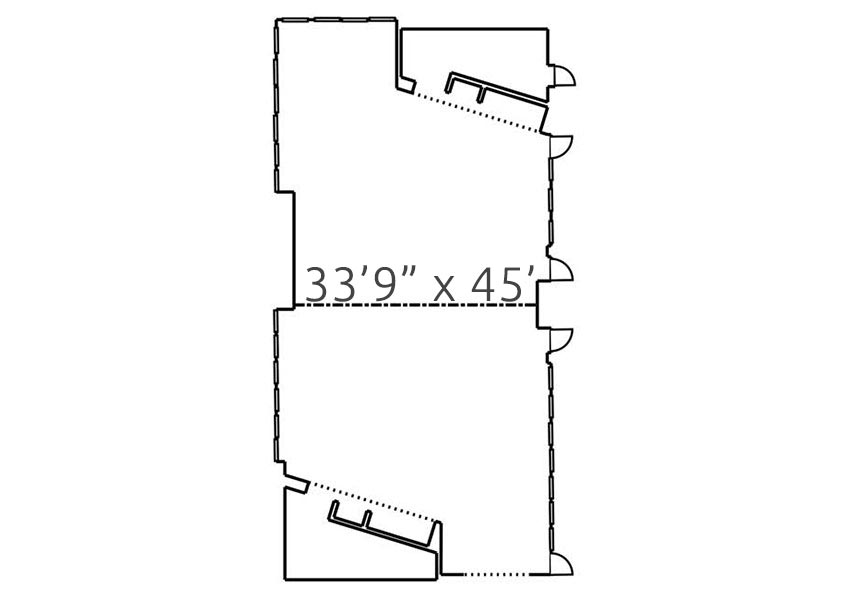
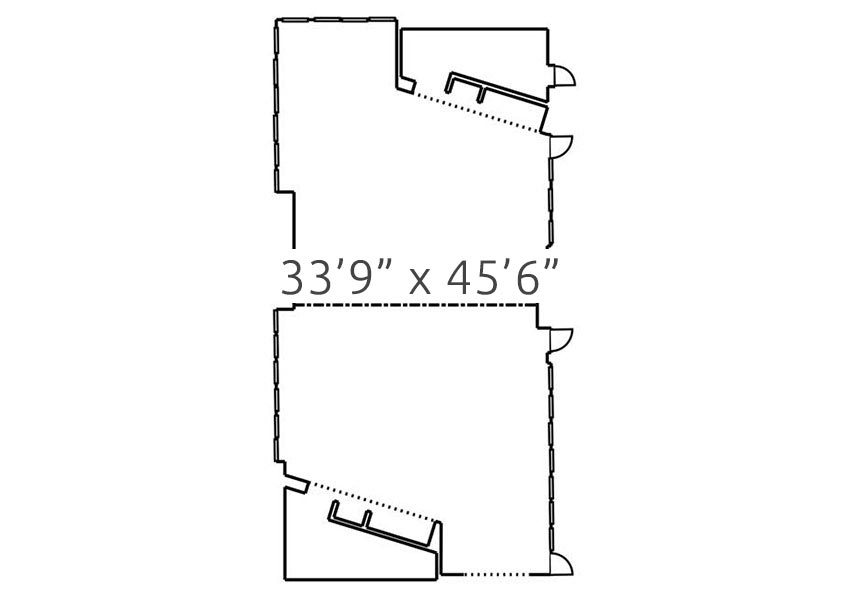
rooms and floor plans

Changed region(s): [[0.3365, 0.42, 0.6729, 0.51]]

diff --git a/event-spaces/index.html b/event-spaces/index.html
@@ -128,6 +128,13 @@ e.async=true;var t=document.getElementsByTagName("script")[0];t.parentNode.inser
     vertical-align: middle;
     padding-bottom: 3px;
 }
+.more, .more a, .more a:hover {
+    color: #b1462c;
+    text-decoration: none!important;
+    font-size: 1.2em;
+    vertical-align: top;
+    font-weight: 500;
+}
 .lbl {
     position: relative;
     top: 9px;
@@ -188,6 +195,9 @@ e.async=true;var t=document.getElementsByTagName("script")[0];t.parentNode.inser
 @media (max-width: 767px) {
 .element-item {
     width: 100%;
+}
+.element-wrapper {
+    margin: 0 2px 30px 2px;
 }
 }
 </style>
@@ -411,7 +421,7 @@ e.async=true;var t=document.getElementsByTagName("script")[0];t.parentNode.inser
           <div class="element-wrapper">
             <div class="no-padding"><img class="img-responsive center-block" src="cap-ma-event-hall-library.jpg" alt="CPN Masters Association Event Hall"></div>
             <div class="padding-15">
-              <h4 class="no-margin-top"><span class="text-uppercase">Castle Pines &mdash;</span> <span class="roboto">CPN Master Association Event Hall + Adjoining Library Space</span></h4>
+              <h4 class="no-margin-top"><span class="text-uppercase">Castle Pines &mdash;</span> <span class="roboto">CPN Master Association Event Hall + Adjoining Library Space <a class="more" data-placement="top" tabindex="0" role="button" data-toggle="popover" data-trigger="focus" data-content="Only available through Select or Concierge Service">*</a></span></h4>
               <div><span class="text-uppercase small">Theater Capacity:</span> 120</div>
               <div><span class="text-uppercase small">Availability:</span> Before/after library hours</div>
               <div><span class="text-uppercase small">Dimensions:</span> 53' x 25'3"</div>
@@ -425,7 +435,7 @@ e.async=true;var t=document.getElementsByTagName("script")[0];t.parentNode.inser
           <div class="element-wrapper">
             <div class="no-padding"><img class="img-responsive center-block" src="cap-the-terrace.jpg" alt="The Terrace"></div>
             <div class="padding-15">
-              <h4 class="no-margin-top"><span class="text-uppercase">Castle Pines &mdash;</span> <span class="roboto">The Terrace</span></h4>
+              <h4 class="no-margin-top"><span class="text-uppercase">Castle Pines &mdash;</span> <span class="roboto">The Terrace <a class="more" data-placement="top" tabindex="0" role="button" data-toggle="popover" data-trigger="focus" data-content="Only available through Select or Concierge Service">*</a></span></h4>
               <div><span class="text-uppercase small">Max. Capacity:</span> 100</div>
               <div><span class="text-uppercase small">Availability:</span> Before/after library hours</div>
               <div><span class="text-uppercase small">Dimensions:</span> 47'6" x 24'8"</div>
@@ -474,6 +484,20 @@ e.async=true;var t=document.getElementsByTagName("script")[0];t.parentNode.inser
               <div><span class="text-uppercase small">Cost/Hr:</span> $30-75</div>
               <div class="text-uppercase small"><i class="material-icons teal">home</i> Indoor</div>
               <div class="margin-top-10">The covered second-floor terrace is adjacent to the green roof and features Wi-Fi internet access, a fireplace, and stunning Front Range vistas.</div>
+            </div>
+          </div>
+        </div>
+        <div class="element-item castle-pines" data-smallcap="6" data-largecap="-6">
+          <div class="element-wrapper">
+            <div class="no-padding"><img class="img-responsive center-block" src="cap-second-floor-conference.jpg" alt="Second Floor Conference Room"></div>
+            <div class="padding-15">
+              <h4 class="no-margin-top"><span class="text-uppercase">Castle Pines &mdash;</span> <span class="roboto">Second Floor Conference Room</span></h4>
+              <div><span class="text-uppercase small">Max. Capacity:</span> 6</div>
+              <div><span class="text-uppercase small">Availability:</span> Unlimited</div>
+              <div><span class="text-uppercase small">Dimensions:</span> 9'11" x 13'8"</div>
+              <div><span class="text-uppercase small">Cost/Hr:</span> $25-75</div>
+              <div class="text-uppercase small"><i class="material-icons teal">home</i> Indoor</div>
+              <div class="margin-top-10">This private meeting space on the upper level of the library features Wi-Fi internet access, a 65-inch LED television, Blu-ray player, and table-mounted HDMI connectivity. </div>
             </div>
           </div>
         </div>
@@ -551,7 +575,7 @@ e.async=true;var t=document.getElementsByTagName("script")[0];t.parentNode.inser
           <div class="element-wrapper">
             <div class="no-padding"><img class="img-responsive center-block" src="cr-bandstand.jpg" alt="Castle Rock Bandstand"></div>
             <div class="padding-15">
-              <h4 class="no-margin-top"><span class="text-uppercase">Castle Rock &mdash;</span> <span class="roboto">Bandstand</span></h4>
+              <h4 class="no-margin-top"><span class="text-uppercase">Castle Rock &mdash;</span> <span class="roboto">Bandstand <a class="more" data-placement="top" tabindex="0" role="button" data-toggle="popover" data-trigger="focus" data-content="Only available through Select or Concierge Service">*</a></span></h4>
               <div><span class="text-uppercase small">Max. Capacity:</span> 10</div>
               <div><span class="text-uppercase small">Availability:</span> Unlimited</div>
               <div><span class="text-uppercase small">Dimensions:</span> 14' x 14'</div>
@@ -565,7 +589,7 @@ e.async=true;var t=document.getElementsByTagName("script")[0];t.parentNode.inser
           <div class="element-wrapper">
             <div class="no-padding"><img class="img-responsive center-block" src="hr-terrace.jpg" alt="The Terrace"></div>
             <div class="padding-15">
-              <h4 class="no-margin-top"><span class="text-uppercase">Highlands Ranch &mdash;</span> <span class="roboto">The Terrace</span></h4>
+              <h4 class="no-margin-top"><span class="text-uppercase">Highlands Ranch &mdash;</span> <span class="roboto">The Terrace <a class="more" data-placement="top" tabindex="0" role="button" data-toggle="popover" data-trigger="focus" data-content="Only available through Select or Concierge Service">*</a></span></h4>
               <div><span class="text-uppercase small">Max. Capacity:</span> 140</div>
               <div><span class="text-uppercase small">Availability:</span> Before/after library hours</div>
               <div><span class="text-uppercase small">Dimensions:</span> 19'11" x 30'</div>
@@ -594,7 +618,7 @@ Shea Meeting Room A"></div>
           <div class="element-wrapper">
             <div class="no-padding"><img class="img-responsive center-block" src="hr-quiet-reading-room.jpg" alt="Second Floor Quiet Reading Room"></div>
             <div class="padding-15">
-              <h4 class="no-margin-top"><span class="text-uppercase">Highlands Ranch &mdash;</span> <span class="roboto">Second Floor Quiet Reading Room</span></h4>
+              <h4 class="no-margin-top"><span class="text-uppercase">Highlands Ranch &mdash;</span> <span class="roboto">Second Floor Quiet Reading Room <a class="more" data-placement="top" tabindex="0" role="button" data-toggle="popover" data-trigger="focus" data-content="Only available through Select or Concierge Service">*</a></span></h4>
               <div><span class="text-uppercase small">Max. Capacity:</span> 80</div>
               <div><span class="text-uppercase small">Availability:</span> Limited; call for details</div>
               <div><span class="text-uppercase small">Dimensions:</span> 28'6" x 28'6"</div>
@@ -637,7 +661,7 @@ Shea Meeting Room A"></div>
           <div class="element-wrapper">
             <div class="no-padding"><img class="img-responsive center-block" src="lt-event-hall-library.jpg" alt="Event Hall + Adjoining Library Space"></div>
             <div class="padding-15">
-              <h4 class="no-margin-top"><span class="text-uppercase">Lone Tree &mdash;</span> <span class="roboto">Event Hall + Adjoining Library Space</span></h4>
+              <h4 class="no-margin-top"><span class="text-uppercase">Lone Tree &mdash;</span> <span class="roboto">Event Hall + Adjoining Library Space <a class="more" data-placement="top" tabindex="0" role="button" data-toggle="popover" data-trigger="focus" data-content="Only available through Select or Concierge Service">*</a></span></h4>
               <div><span class="text-uppercase small">Max. Capacity:</span> 200</div>
               <div><span class="text-uppercase small">Availability:</span> Before/after library hours
                 Indoor</div>
@@ -667,7 +691,7 @@ Shea Meeting Room A"></div>
           <div class="element-wrapper">
             <div class="no-padding"><img class="img-responsive center-block" src="lt-main-terrace.jpg" alt="Main Terrace"></div>
             <div class="padding-15">
-              <h4 class="no-margin-top"><span class="text-uppercase">Lone Tree &mdash;</span> <span class="roboto">Main Terrace</span></h4>
+              <h4 class="no-margin-top"><span class="text-uppercase">Lone Tree &mdash;</span> <span class="roboto">Main Terrace <a class="more" data-placement="top" tabindex="0" role="button" data-toggle="popover" data-trigger="focus" data-content="Only available through Select or Concierge Service">*</a></span></h4>
               <div><span class="text-uppercase small">Max. Capacity:</span> 75</div>
               <div><span class="text-uppercase small">Availability:</span> Before/after library hours</div>
               <div><span class="text-uppercase small">Dimensions:</span> 13'9" x 56'5"</div>
@@ -708,15 +732,29 @@ Shea Meeting Room A"></div>
         </div>
         <div class="element-item parker" data-smallcap="235" data-largecap="-235">
           <div class="element-wrapper">
-            <div class="no-padding"><img class="img-responsive center-block" src="pa-event-hall-a-b.jpg" alt="Event Hall A & B + Terrace"></div>
+            <div class="no-padding"><img class="img-responsive center-block" src="pa-event-hall-a-b-terrace.jpg" alt="Event Hall A & B + Terrace"></div>
             <div class="padding-15">
-              <h4 class="no-margin-top"><span class="text-uppercase">Parker &mdash;</span> <span class="roboto">Event Hall A & B + Terrace</span></h4>
+              <h4 class="no-margin-top"><span class="text-uppercase">Parker &mdash;</span> <span class="roboto">Event Hall A & B + Terrace <a class="more" data-placement="top" tabindex="0" role="button" data-toggle="popover" data-trigger="focus" data-content="Only available through Select or Concierge Service">*</a></span></h4>
               <div><span class="text-uppercase small">Max. Capacity:</span> 235</div>
               <div><span class="text-uppercase small">Availability:</span> Unlimited</div>
-              <div><span class="text-uppercase small">Dimensions:</span> 81'8" x 64'4"</div>
+              <div><span class="text-uppercase small">Dimensions:</span> 33'9" x 45'6" + 14"3" x 18'10"</div>
               <div><span class="text-uppercase small">Cost/Hr:</span> $25-250</div>
               <div class="text-uppercase small"><i class="material-icons teal">home</i> Indoor <i class="material-icons loquacious">wb_sunny</i> Outdoor</div>
               <div class="margin-top-10">This combined event space on the second floor features Wi-Fi internet access, a wet bar, built-in audiovisual equipment and screen for presentations, a hearing loop for use with hearing-impaired guests, an abundance of natural light through floor-to-ceiling windows, and west-facing views from the small terrace. </div>
+            </div>
+          </div>
+        </div>
+        <div class="element-item parker" data-smallcap="200" data-largecap="-200">
+          <div class="element-wrapper">
+            <div class="no-padding"><img class="img-responsive center-block" src="pa-event-hall-a-b.jpg" alt="Event Hall A & B"></div>
+            <div class="padding-15">
+              <h4 class="no-margin-top"><span class="text-uppercase">Parker &mdash;</span> <span class="roboto">Event Hall A & B</span></h4>
+              <div><span class="text-uppercase small">Max. Capacity:</span> 200</div>
+              <div><span class="text-uppercase small">Availability:</span> Unlimited</div>
+              <div><span class="text-uppercase small">Dimensions:</span> 33'9" x 45'6"</div>
+              <div><span class="text-uppercase small">Cost/Hr:</span> ????</div>
+              <div class="text-uppercase small"><i class="material-icons teal">home</i> Indoor</div>
+              <div class="margin-top-10">This combined event space features Wi-Fi internet access, a wet bar, built-in audiovisual equipment and screens, and terrace access. </div>
             </div>
           </div>
         </div>
@@ -752,10 +790,10 @@ Shea Meeting Room A"></div>
           <div class="element-wrapper">
             <div class="no-padding"><img class="img-responsive center-block" src="pa-event-hall-a-terrace.jpg" alt="Event Hall A + Terrace"></div>
             <div class="padding-15">
-              <h4 class="no-margin-top"><span class="text-uppercase">Parker &mdash;</span> <span class="roboto">Event Hall A + Terrace</span></h4>
+              <h4 class="no-margin-top"><span class="text-uppercase">Parker &mdash;</span> <span class="roboto">Event Hall A + Terrace <a class="more" data-placement="top" tabindex="0" role="button" data-toggle="popover" data-trigger="focus" data-content="Only available through Select or Concierge Service">*</a></span></h4>
               <div><span class="text-uppercase small">Max. Capacity:</span> 125</div>
               <div><span class="text-uppercase small">Availability:</span> Unlimited</div>
-              <div><span class="text-uppercase small">Dimensions:</span> 48" x 41'4"</div>
+              <div><span class="text-uppercase small">Dimensions:</span> ??????</div>
               <div><span class="text-uppercase small">Cost/Hr:</span> $25-175</div>
               <div class="text-uppercase small"><i class="material-icons teal">home</i> Indoor <i class="material-icons loquacious">wb_sunny</i> Outdoor</div>
               <div class="margin-top-10">Event Hall A combined with the terrace features Wi-Fi internet access, a wet bar, built-in audiovisual equipment and screen for presentations, a hearing loop for use with hearing-impaired guests, plenty of natural light in the room, and west-facing views from the small terrace.</div>
@@ -917,7 +955,7 @@ $('.button-group').each( function( i, buttonGroup ) {
   </div>
 </div>
 <!-- InstanceBeginEditable name="scripts" --> 
-<script>
+	<script>
   $(document).ready(function () {
     $(function () {
         $('.switcheroo').change(function () {
@@ -944,7 +982,12 @@ $('.button-group').each( function( i, buttonGroup ) {
     })
 	});  // end document ready
 	</script> 
-<!-- InstanceEndEditable --> 
+	<script>
+$(function () {
+  $('[data-toggle="popover"]').popover()
+})
+ </script> 
+	<!-- InstanceEndEditable --> 
 <!-- Structured Data --> 
 
 <!-- End Structured Data -->
